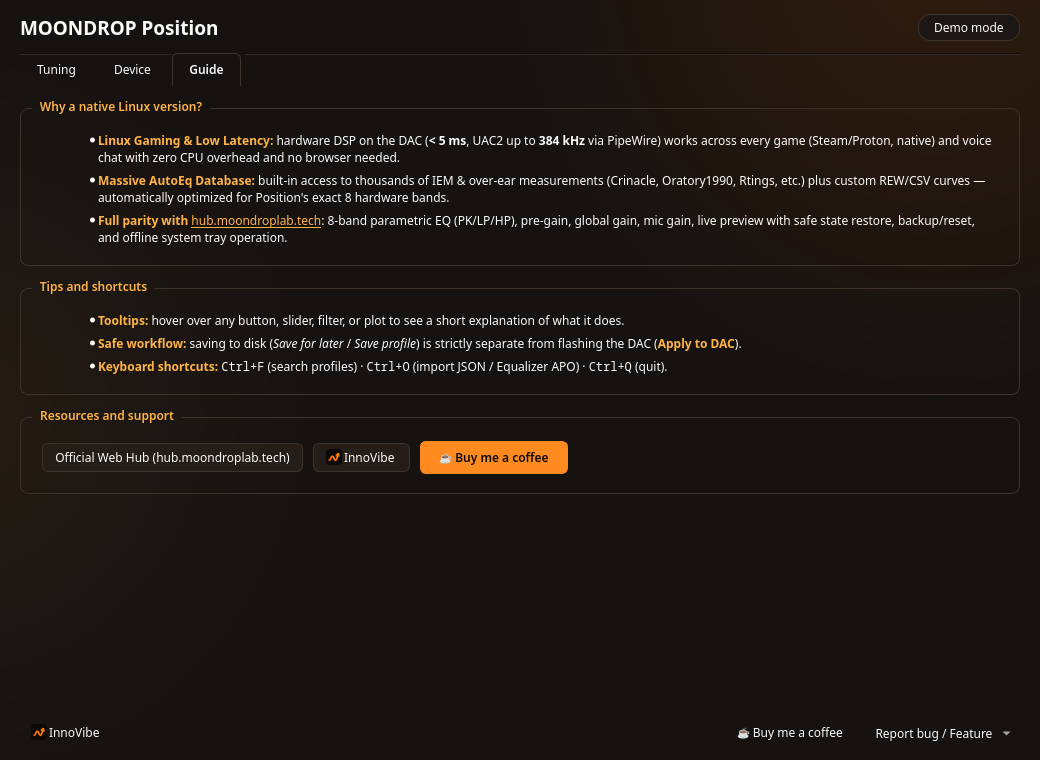
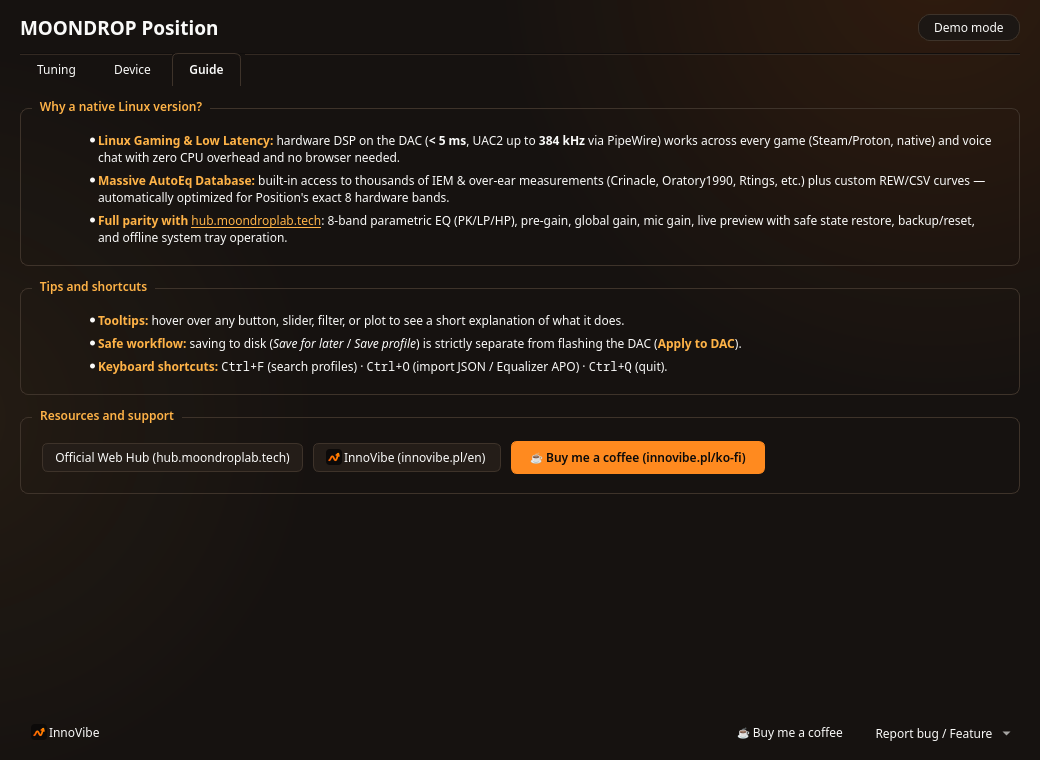
Use innovibe.pl/ko-fi link and display URLs in Guide tab

Changed region(s): [[0.3692, 0.575, 0.7385, 0.6355]]

diff --git a/skrypty/position_gui.py b/skrypty/position_gui.py
@@ -2694,11 +2694,11 @@ class ProfilesWindow(QWidget):
         self.guide_hub_btn = QPushButton(tr("help.open_hub"))
         self.guide_hub_btn.clicked.connect(lambda: self.open_external_url(OFFICIAL_HUB_URL))
         innovibe_icon = QIcon(str(INNOVIBE_ICON))
-        self.guide_author_btn = QPushButton(tr("footer.author_label"))
+        self.guide_author_btn = QPushButton(tr("help.author_link"))
         self.guide_author_btn.setIcon(innovibe_icon)
         self.guide_author_btn.setToolTip(tr("footer.author_tooltip"))
         self.guide_author_btn.clicked.connect(lambda: self.open_external_url(tr("footer.author_url")))
-        self.guide_coffee_btn = QPushButton(tr("footer.coffee"))
+        self.guide_coffee_btn = QPushButton(tr("help.coffee_link"))
         self.guide_coffee_btn.setStyleSheet(PRIMARY_ACTION_STYLE)
         self.guide_coffee_btn.setToolTip(tr("footer.coffee_tooltip"))
         self.guide_coffee_btn.clicked.connect(lambda: self.open_external_url(tr("footer.coffee_url")))
@@ -2954,8 +2954,8 @@ class ProfilesWindow(QWidget):
         self.guide_tips_box.setTitle(tr("help.tips_group"))
         self.links_box.setTitle(tr("help.links_group"))
         self.guide_hub_btn.setText(tr("help.open_hub"))
-        self.guide_author_btn.setText(tr("footer.author_label"))
-        self.guide_coffee_btn.setText(tr("footer.coffee"))
+        self.guide_author_btn.setText(tr("help.author_link"))
+        self.guide_coffee_btn.setText(tr("help.coffee_link"))
         self.device_box.setTitle(tr("device.read_settings"))
         for key, lbl in self.detail_labels.items():
             lbl.setText(tr(key))

diff --git a/README.pl.md b/README.pl.md
@@ -110,7 +110,7 @@ Manifest Flatpak ([`local.moondrop.Position.json`](local.moondrop.Position.json)
 ## Wsparcie, zgłoszenia i autor
 
 - **Autor:** [InnoVibe](https://www.innovibe.pl)
-- **Postaw mi kawę:** Podoba Ci się projekt? [Wesprzyj rozwój (płatności PL i EU)](https://www.innovibe.pl/kawa) — lub kliknij **☕ Postaw mi kawę** bezpośrednio w stopce aplikacji.
+- **Postaw mi kawę:** Podoba Ci się projekt? [Wesprzyj rozwój (płatności PL i EU)](https://www.innovibe.pl/ko-fi) — lub kliknij **☕ Postaw mi kawę** bezpośrednio w stopce aplikacji.
 - **Znalazłeś błąd lub masz pomysł?** Użyj przycisku **Zgłoś błąd / Pomysł** w aplikacji (z kopią diagnostyki jednym kliknięciem) albo otwórz zgłoszenie na [GitHub Issues](https://github.com/tom3k5/moondrop-position-dac/issues/new/choose). Strukturyzowane formularze są automatycznie oznaczane etykietą obszaru.
 
 ---

diff --git a/README.md b/README.md
@@ -110,7 +110,7 @@ The Flatpak manifest ([`local.moondrop.Position.json`](local.moondrop.Position.j
 ## Support, Feedback & Author
 
 - **Author:** [InnoVibe](https://www.innovibe.pl/en)
-- **Buy me a coffee:** Enjoying the app? [Support development (PL & EU payments)](https://www.innovibe.pl/en/coffee) — or click **☕ Buy me a coffee** directly in the app footer.
+- **Buy me a coffee:** Enjoying the app? [Support development (PL & EU payments)](https://www.innovibe.pl/ko-fi) — or click **☕ Buy me a coffee** directly in the app footer.
 - **Found a bug or have an idea?** Use the in-app **Report bug / Feature** button (which includes a 1-click diagnostic copy) or open an issue directly on [GitHub Issues](https://github.com/tom3k5/moondrop-position-dac/issues/new/choose). Structured issue forms are automatically labeled by area.
 
 ---
